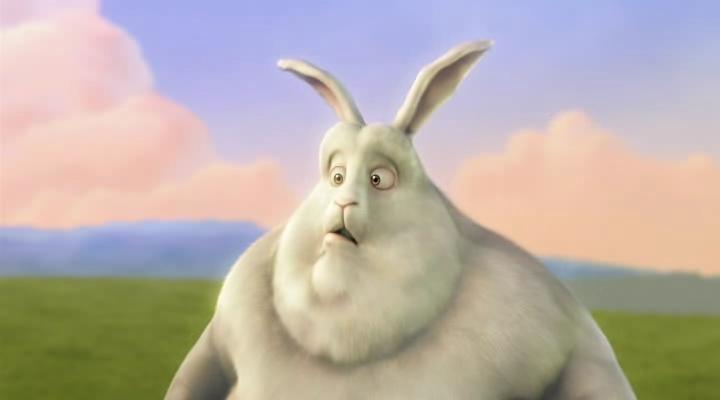
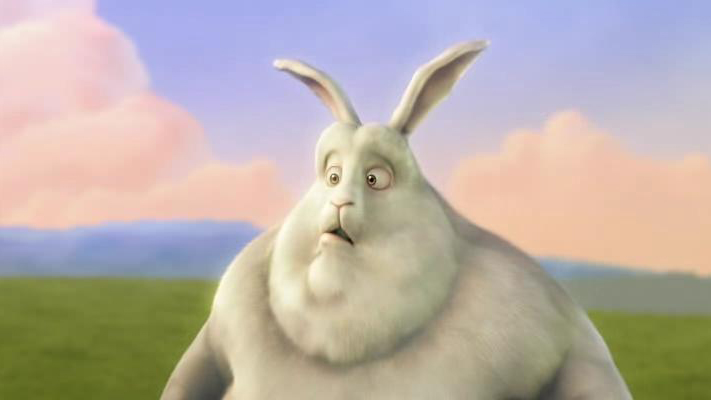
Poster added. Bit of design tweakage. Few bits and bobs.

diff --git a/Html5Canvas/Video/index.html b/Html5Canvas/Video/index.html
@@ -1,7 +1,7 @@
 <!DOCTYPE html>
 <html>
 <head>
-	<title>Video</title>
+	<title>Canvas &amp; Video</title>
 	
 	<link rel="stylesheet" href="styles.css" type="text/css" charset="utf-8">
 	
@@ -19,10 +19,10 @@
 <body>	
 	<div id="container">
 		<header>
-			<h1>Canvas/Video</h1>
+			<h1>Canvas &amp; Video</h1>
 		</header>
 	
-		<video id="vid" controls loop>
+		<video id="vid" controls poster="video/poster.jpg">
 		    <source src="video/sample.webm" type="video/webm">
 		    <source src="video/sample.ogg" type="video/ogg">
 		    <source src="video/sample.mp4" type="video/mp4">

diff --git a/Html5Canvas/Video/styles.css b/Html5Canvas/Video/styles.css
@@ -36,3 +36,16 @@ header h1 {
 	bottom: 0;
 	right: 0;
 }
+
+video {
+	display: block;
+	border: 10px solid rgb(53, 131, 173);
+	
+	-moz-border-radius: 7px;
+	-webkit-border-radius: 7px;
+	border-radius: 7px;
+	
+	-moz-box-shadow: 0px 0px 8px #FFF;
+	-webkit-box-shadow: 0px 0px 8px #FFF;
+	box-shadow: 0px 0px 8px #FFF;
+}

diff --git a/Html5Canvas/Video/behaviour.js b/Html5Canvas/Video/behaviour.js
@@ -70,7 +70,7 @@ $(function(){
 			], 
 			{ 
 				xaxis: { mode: "time" },
-				yaxis: { max: 255 }
+				yaxis: { min: 0, max: 255 }
 			}
 		);
 	}
